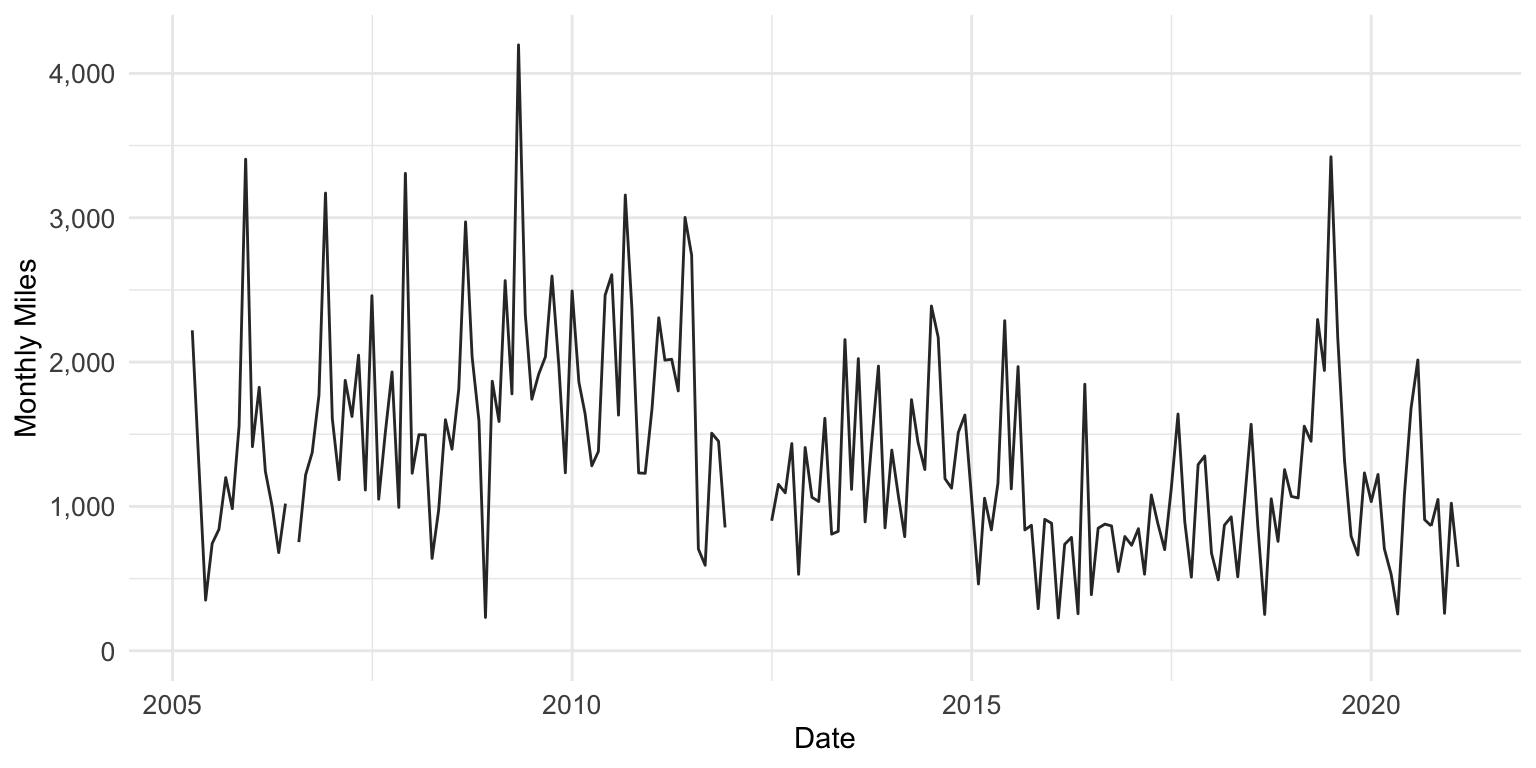
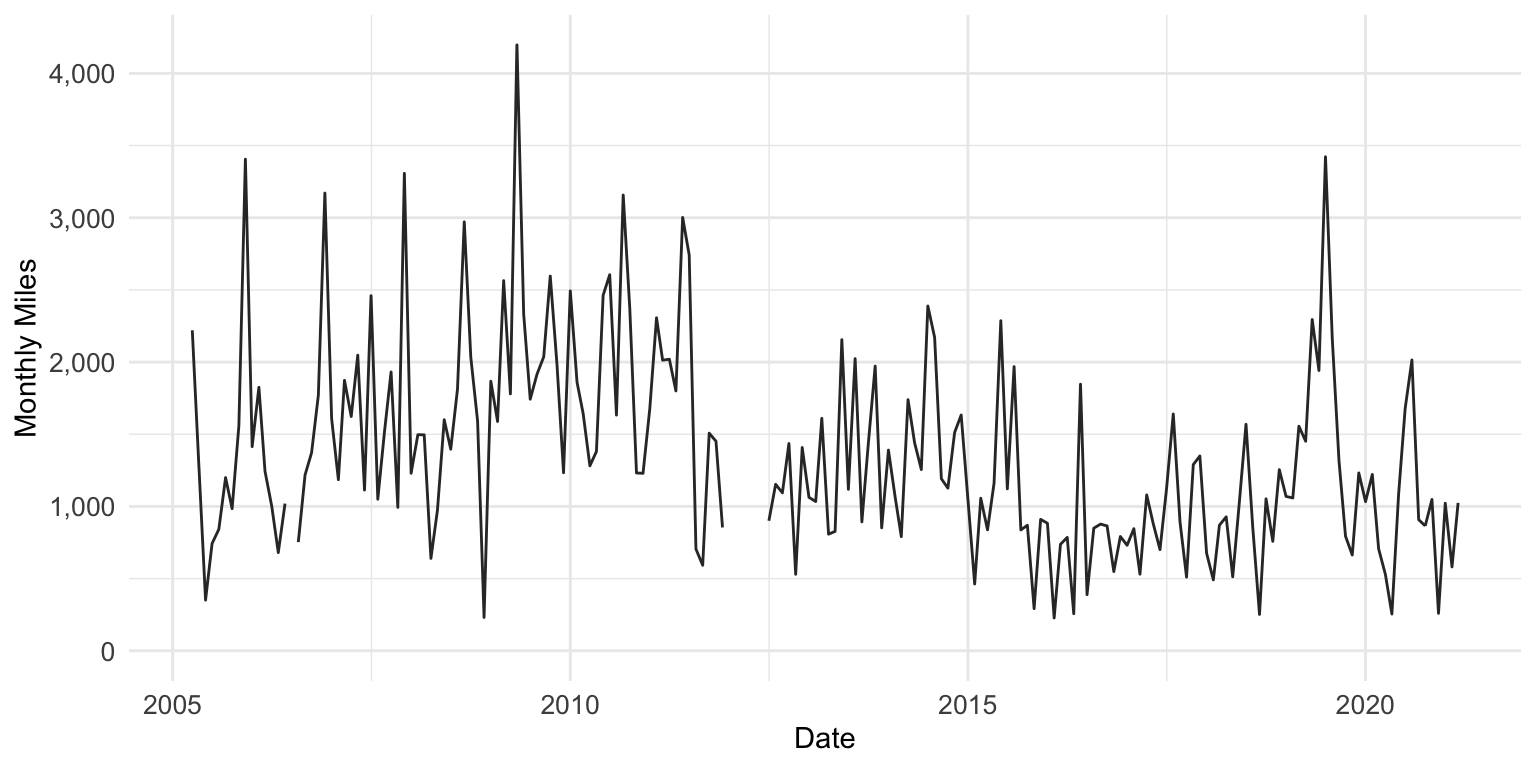
March 2021 update

diff --git a/docs/index.html b/docs/index.html
@@ -308,13 +308,13 @@ $(document).ready(function () {
 
 <h1 class="title toc-ignore">Analysis of Gas Receipts</h1>
 <h4 class="author">Nathan Hoteling</h4>
-<h4 class="date">February 2021</h4>
+<h4 class="date">April 2021</h4>
 
 </div>
 
 
 <p><br /></p>
-<p>This analysis provides a summary of data collected from gas receipts for all vehicles I have owned from <b> April 2005 </b> to <b> February 2021</b>, a span of <b> 15.8 </b> years. Over this time period we drove a total of <b> 252,362 </b> miles and spent <b> $24,783.26 </b> on gas.</p>
+<p>This analysis provides a summary of data collected from gas receipts for all vehicles I have owned from <b> April 2005 </b> to <b> March 2021</b>, a span of <b> 15.9 </b> years. Over this time period we drove a total of <b> 253,386 </b> miles and spent <b> $24,901.56 </b> on gas.</p>
 <p><br /></p>
 
 
